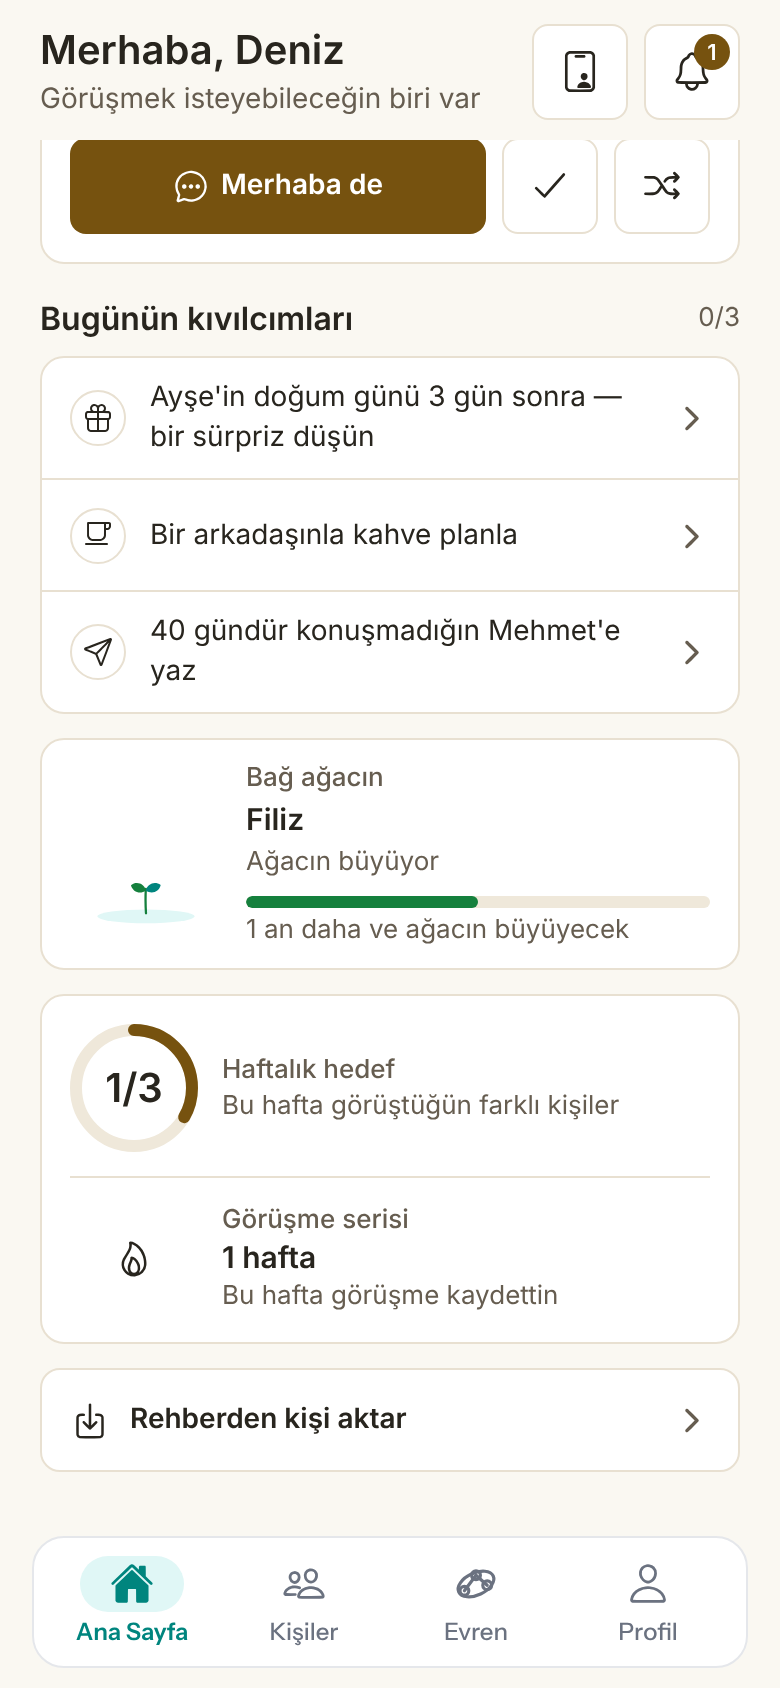
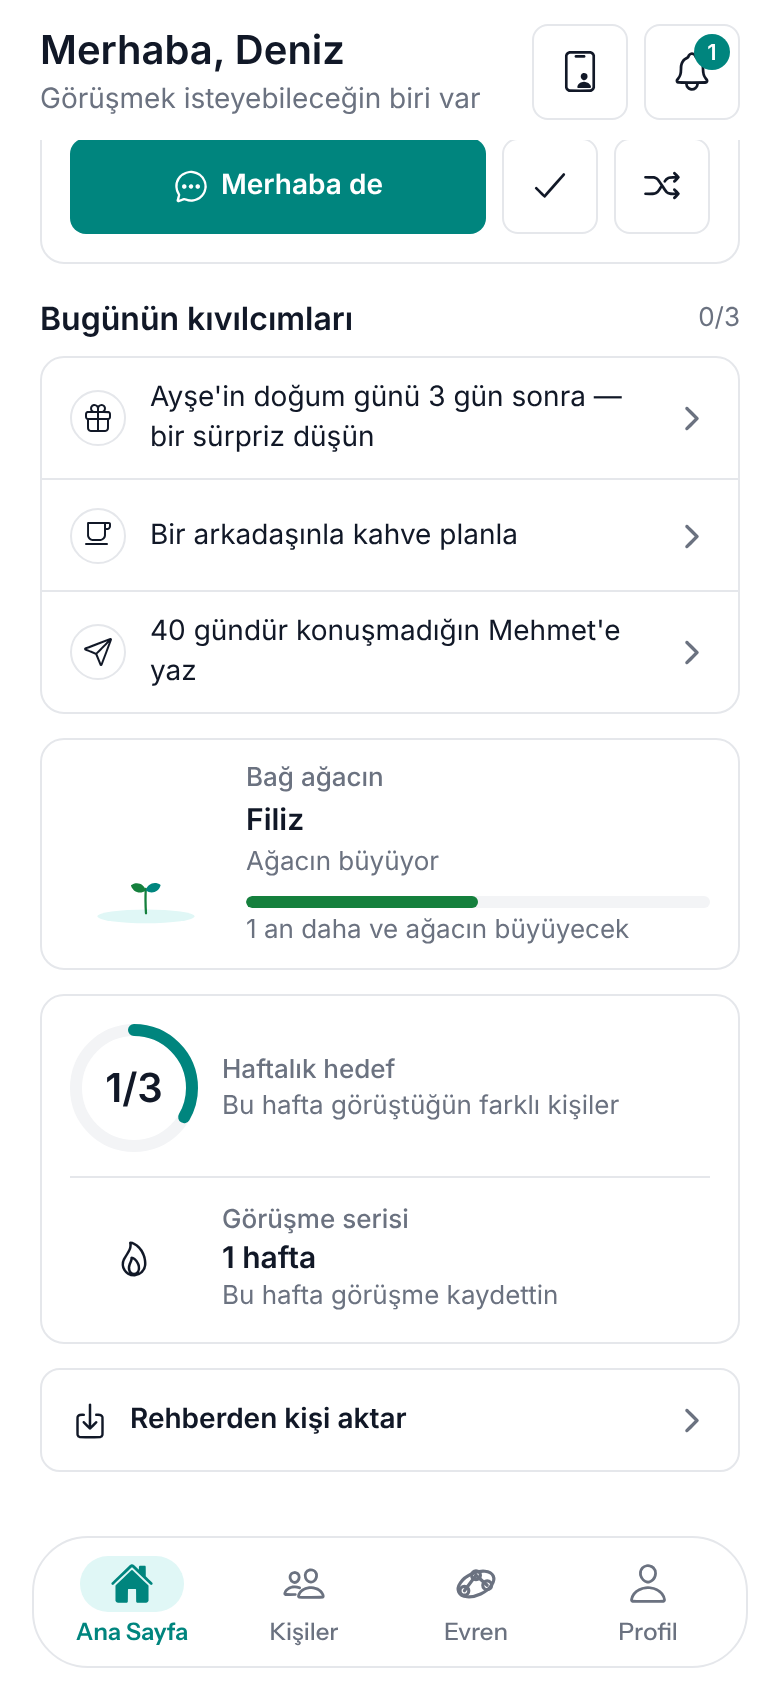
Home: back to the app's white and turquoise colors
Drop Home's local warm palette and the tab bar's home variant; the new
layout, typography and corners stay.

Claude-Session: https://claude.ai/code/session_01GRdj6yfDSyeb2tphAkP3KA

diff --git a/src/screens/HomeScreen.tsx b/src/screens/HomeScreen.tsx
@@ -6,7 +6,7 @@ import Ionicons from "@expo/vector-icons/Ionicons";
 import { loadContacts, subscribeContacts } from "../data/contacts";
 import { loadSettings } from "../data/userSettings";
 import type { ContactForm } from "./AddContactScreen";
-import { colors, colorScheme } from "../theme/colors";
+import { colors } from "../theme/colors";
 import { isDue, daysSinceIntervalStart } from "../utils/reminderInterval";
 import { averageHealthScore, healthScoreColor, healthScoreLabel } from "../utils/healthScore";
 import {
@@ -36,15 +36,17 @@ import { t } from "../i18n";
 
 type IconName = keyof typeof Ionicons.glyphMap;
 
-/**
- * Home's own palette (warm paper, white cards, mustard main action). Local to
- * this screen on purpose; the rest of the app keeps the turquoise theme.
- * Green stays only as a "done" indicator.
- */
-const H =
-  colorScheme() === "dark"
-    ? { bg: "#1B1915", card: "#23201B", border: "#3A3429", text: "#F3EFE6", sub: "#B9AE9B", selected: "#E9D58A", onSelected: "#28251E", primary: "#E2BE62", onPrimary: "#28251E", track: "#3A3429" }
-    : { bg: "#FAF8F2", card: "#FFFFFF", border: "#E8E0D1", text: "#28251E", sub: "#665D50", selected: "#F6E8AE", onSelected: "#28251E", primary: "#76520F", onPrimary: "#FFFFFF", track: "#EFE8DA" };
+/** Home uses the app's standard palette (white surfaces, turquoise primary). */
+const H = {
+  bg: colors.bg,
+  card: colors.surface,
+  border: colors.border,
+  text: colors.text,
+  sub: colors.textSub,
+  primary: colors.primary,
+  onPrimary: colors.onFill,
+  track: colors.borderLight,
+};
 
 const R = { card: 12, row: 10, button: 8, bar: 16 };
 
@@ -541,7 +543,7 @@ const styles = StyleSheet.create({
 
   skeleton: { borderRadius: R.card, backgroundColor: H.card, borderWidth: 1, borderColor: H.border },
 
-  backdrop: { flex: 1, backgroundColor: "rgba(40,37,30,0.38)", justifyContent: "center", padding: 20 },
+  backdrop: { flex: 1, backgroundColor: colors.overlay, justifyContent: "center", padding: 20 },
   sheet: { backgroundColor: H.card, borderRadius: R.card, padding: 20 },
   stageRow: { flexDirection: "row", alignItems: "center", gap: 10, minHeight: 40 },
 });

diff --git a/src/components/BottomTabBar.tsx b/src/components/BottomTabBar.tsx
@@ -4,10 +4,6 @@ import { useSafeAreaInsets } from "react-native-safe-area-context";
 import Ionicons from "@expo/vector-icons/Ionicons";
 import OrbitIcon from "./OrbitIcon";
 import { warm, type as typeScale } from "../theme/warm";
-import { colorScheme } from "../theme/colors";
-
-/** Matches the Home screen's background (HomeScreen's local palette). */
-const homeBg = colorScheme() === "dark" ? "#1B1915" : "#FAF8F2";
 import { hapticTap } from "../utils/haptics";
 import { t } from "../i18n";
 
@@ -45,17 +41,14 @@ const ion = (name: IconName, active: boolean) => (color: string) =>
 export default function BottomTabBar({
   activeTab,
   onTabPress,
-  variant = "default",
 }: {
   activeTab: Tab;
   onTabPress: (tab: Tab) => void;
-  /** "home": the Home screen's warm background and squarer capsule. */
-  variant?: "default" | "home";
 }) {
   const insets = useSafeAreaInsets();
   return (
-    <View style={[styles.wrapper, variant === "home" && { backgroundColor: homeBg }, { paddingBottom: Math.max(insets.bottom, 10) }]}>
-      <View style={[styles.capsule, variant === "home" && styles.capsuleHome]} accessibilityRole="tablist">
+    <View style={[styles.wrapper, { paddingBottom: Math.max(insets.bottom, 10) }]}>
+      <View style={styles.capsule} accessibilityRole="tablist">
         <TabItem label={t("Ana Sayfa")} active={activeTab === "Home"} onPress={() => onTabPress("Home")} icon={ion("home-outline", activeTab === "Home")} />
         <TabItem label={t("Kişiler")} active={activeTab === "People"} onPress={() => onTabPress("People")} icon={ion("people-outline", activeTab === "People")} />
         <TabItem
@@ -86,7 +79,6 @@ const styles = StyleSheet.create({
       android: { elevation: 1 },
     }),
   },
-  capsuleHome: { borderRadius: 16 },
   tabItem: { flex: 1, minHeight: 52, alignItems: "center", justifyContent: "center", gap: 2 },
   iconPill: { width: 52, height: 28, borderRadius: 14, alignItems: "center", justifyContent: "center" },
   iconPillActive: { backgroundColor: warm.selectedSoft },

diff --git a/src/navigation/MainTabs.tsx b/src/navigation/MainTabs.tsx
@@ -30,7 +30,7 @@ export default function MainTabs({ navigation }: Props) {
       <View style={styles.screen}>
         <ActiveScreen tab={activeTab} navigation={navigation} />
       </View>
-      <BottomTabBar activeTab={activeTab} onTabPress={setActiveTab} variant={activeTab === "Home" ? "home" : "default"} />
+      <BottomTabBar activeTab={activeTab} onTabPress={setActiveTab} />
     </View>
   );
 }
